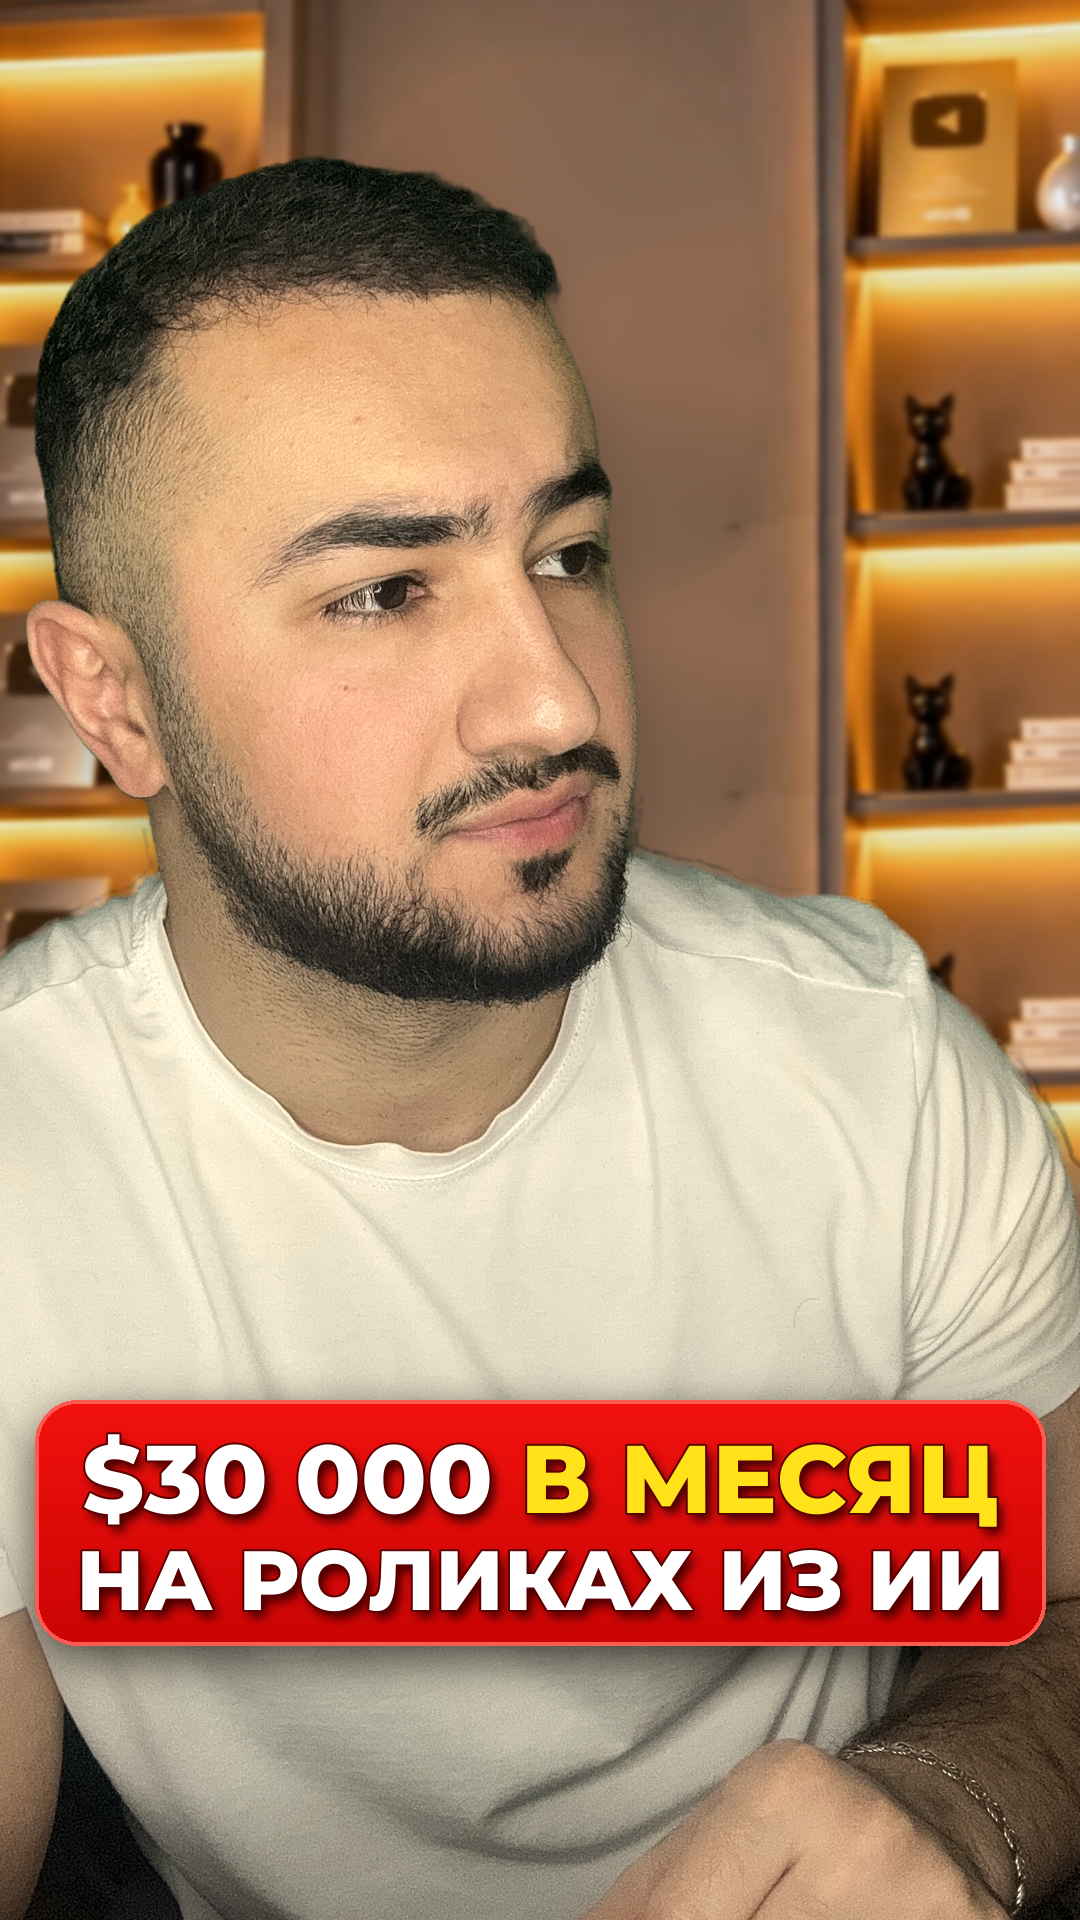
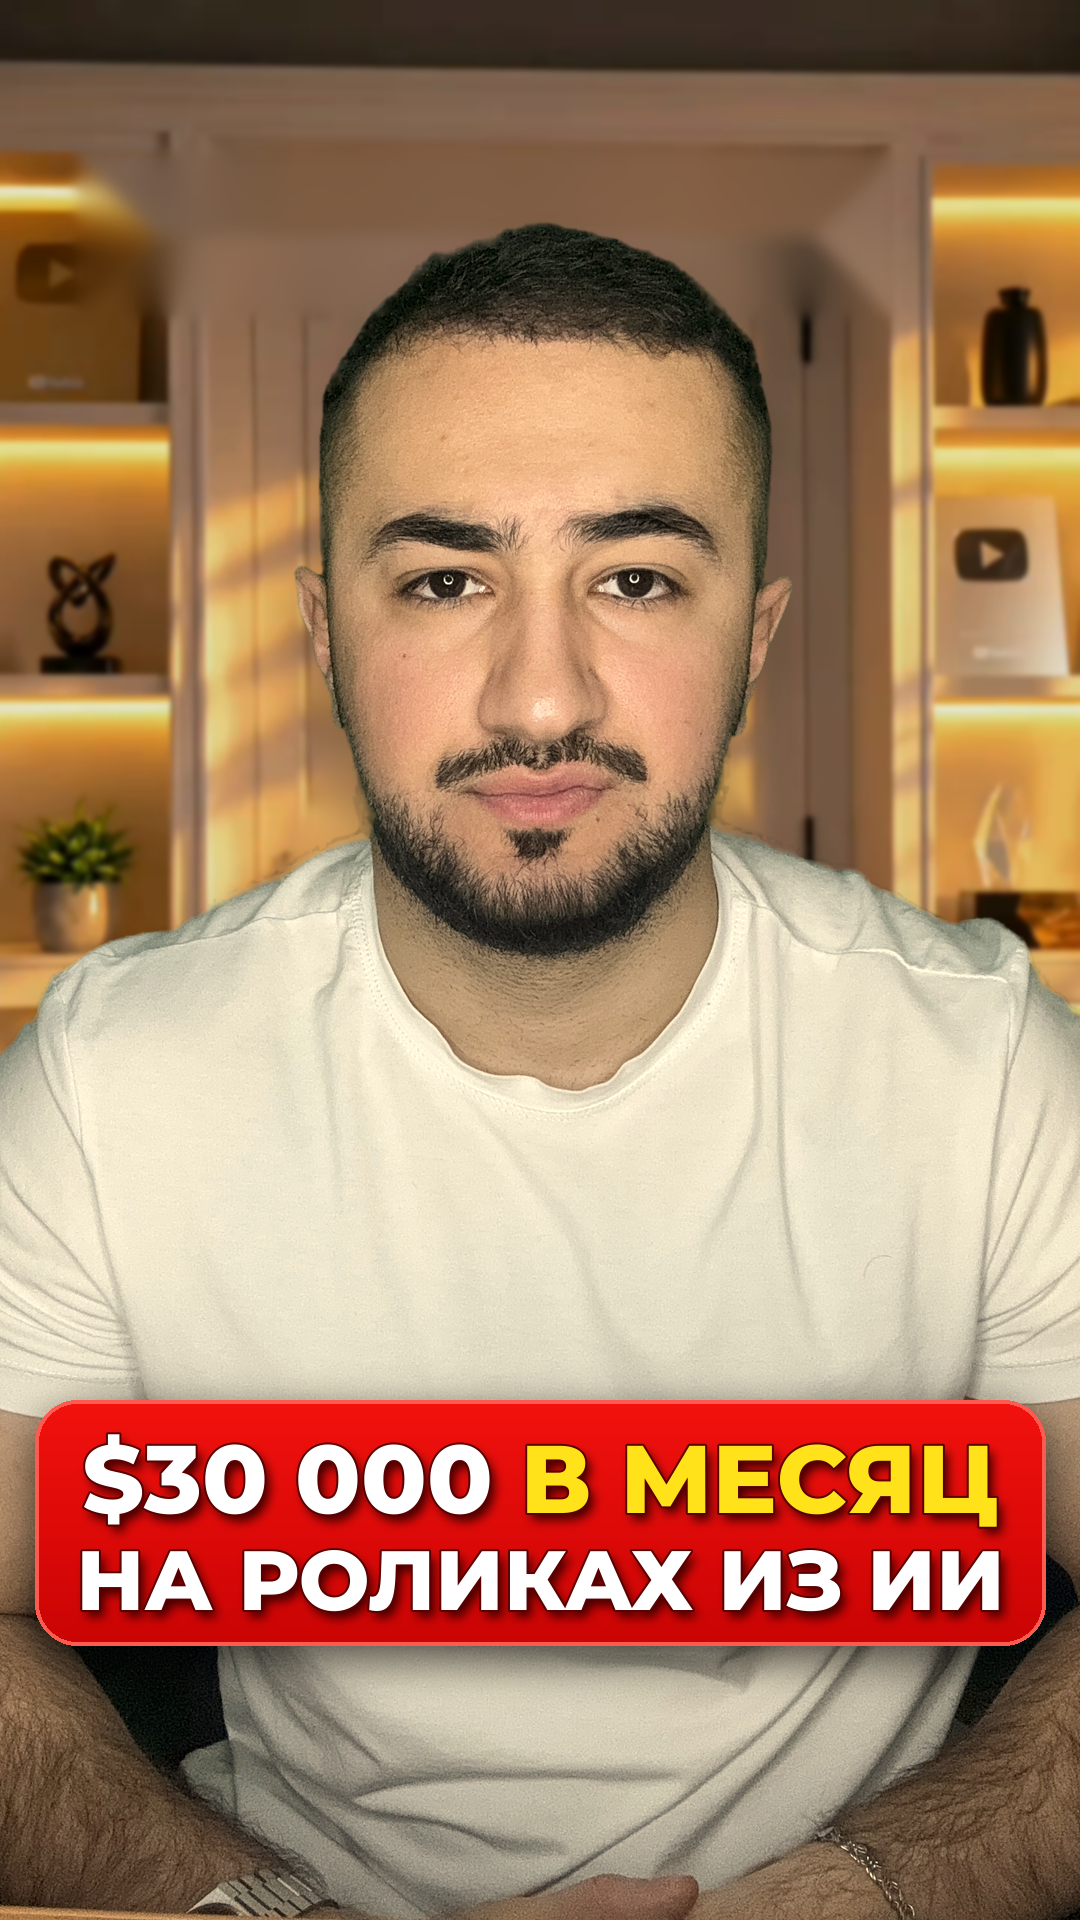
Обложки A и B: фон из кадра ролика без повторов полок, на B новая поза
Claude-Session: https://claude.ai/code/session_017hf3L4YGHDVPqsx2nE8ns4

diff --git a/scripts/cover_bg_video.py b/scripts/cover_bg_video.py
@@ -1,0 +1,31 @@
+"""Фон студии из кадра ролика: убрать спикера (rembg) и впечатанный хук сверху, залить inpaint.
+python cover_bg_video.py frame.png out.png [text_y0 text_y1] (в координатах кадра 720x1280)"""
+import sys, numpy as np, cv2
+from PIL import Image
+from rembg import remove, new_session
+
+src, out = sys.argv[1], sys.argv[2]
+ty0, ty1 = (int(v) for v in sys.argv[3:5]) if len(sys.argv) > 4 else (80, 215)
+im = Image.open(src).convert('RGB')
+a = np.array(im)
+m = np.array(remove(im, session=new_session('u2net_human_seg'), only_mask=True))
+m = cv2.dilate((m > 30).astype(np.uint8) * 255, np.ones((15, 15), np.uint8))
+# хук: белый текст + обводка + эмодзи в верхней полосе -> прямоугольник по найденному тексту
+band = a[ty0:ty1].astype(int)
+white = (band.min(-1) > 225)
+ys, xs = np.where(white)
+if len(xs):
+    x0, x1, y0, y1 = xs.min() - 14, xs.max() + 40, ys.min() + ty0 - 12, ys.max() + ty0 + 14
+    m[max(y0, 0):y1, max(x0, 0):x1] = 255
+# низ кадра (микрофон, стол) всё равно закрыт человеком и плашкой — тоже в маску
+m[int(a.shape[0] * 0.62):] = 255
+big = cv2.resize(a, (1080, 1920), interpolation=cv2.INTER_LANCZOS4)
+mb = cv2.resize(m, (1080, 1920), interpolation=cv2.INTER_NEAREST)
+small = cv2.resize(big, (540, 960), interpolation=cv2.INTER_AREA)
+ms = cv2.resize(mb, (540, 960), interpolation=cv2.INTER_NEAREST)
+fill = cv2.inpaint(small, ms, 12, cv2.INPAINT_TELEA)
+fill = cv2.GaussianBlur(cv2.resize(fill, (1080, 1920), interpolation=cv2.INTER_CUBIC), (0, 0), 5)
+mf = cv2.GaussianBlur(mb, (0, 0), 6)[..., None] / 255.0
+res = (big * (1 - mf) + fill * mf).astype(np.uint8)
+Image.fromarray(res).save(out)
+Image.fromarray(mb).save(out.replace('.png', '_mask.png'))
